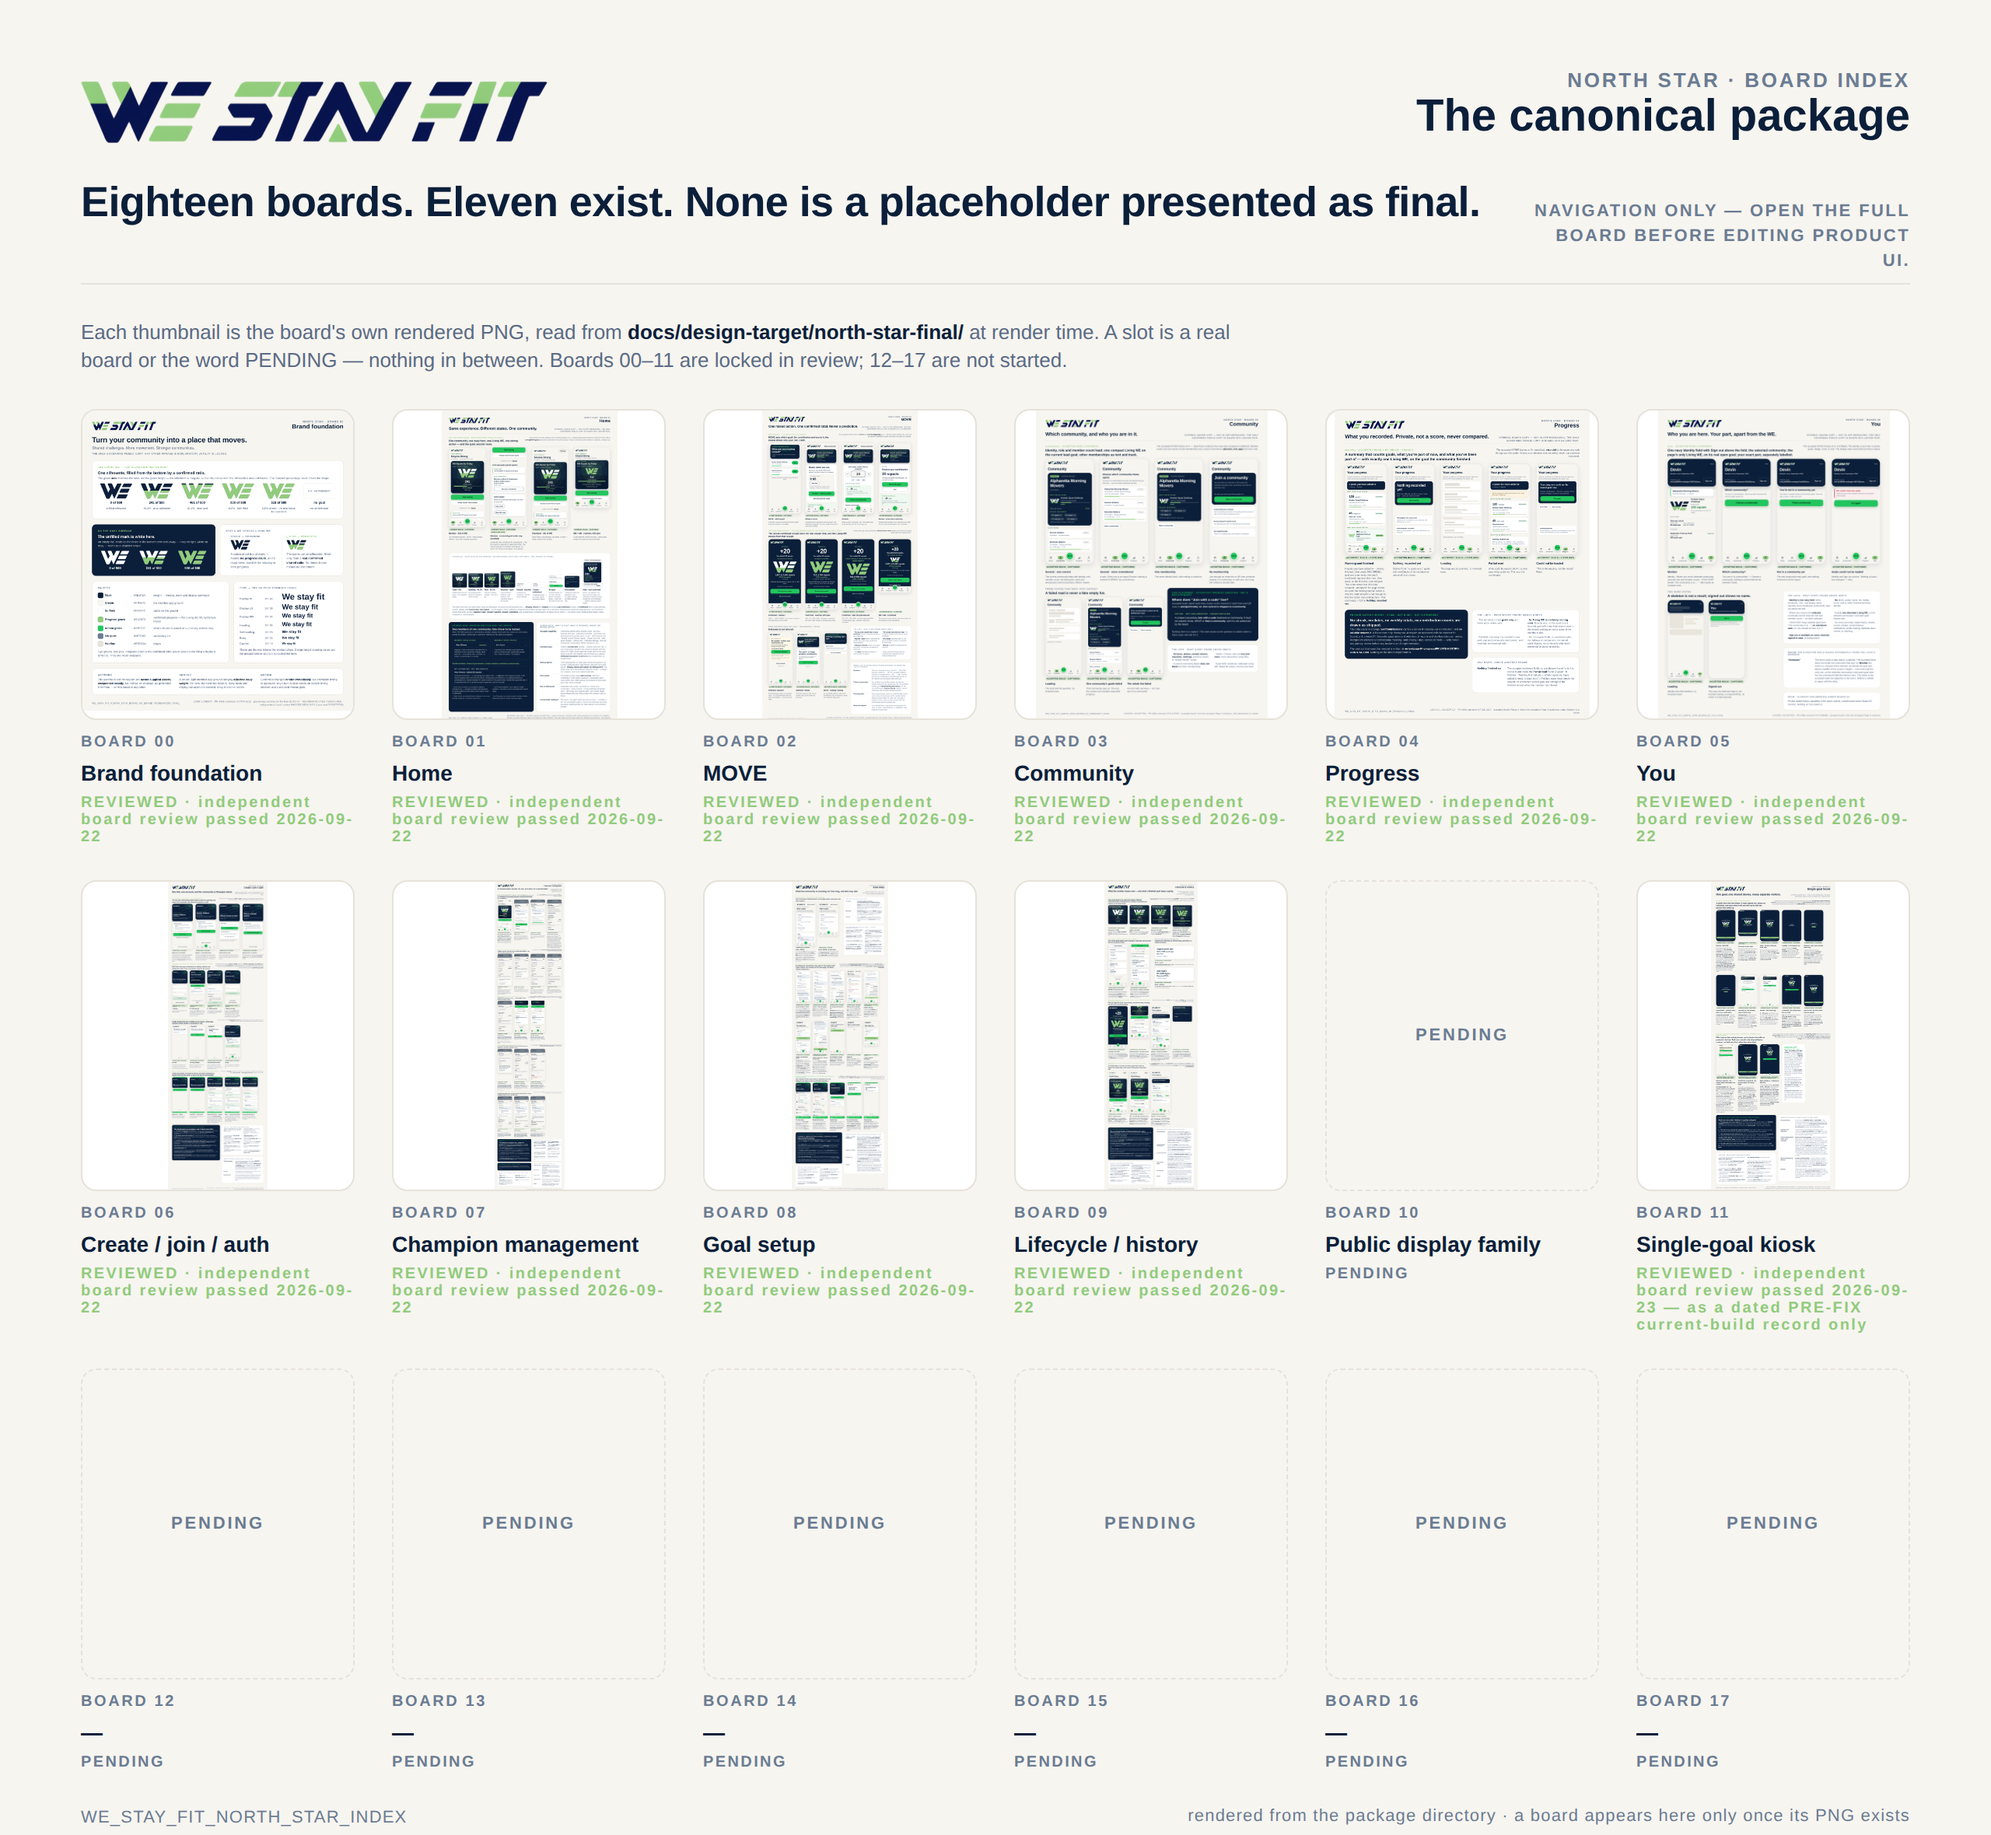
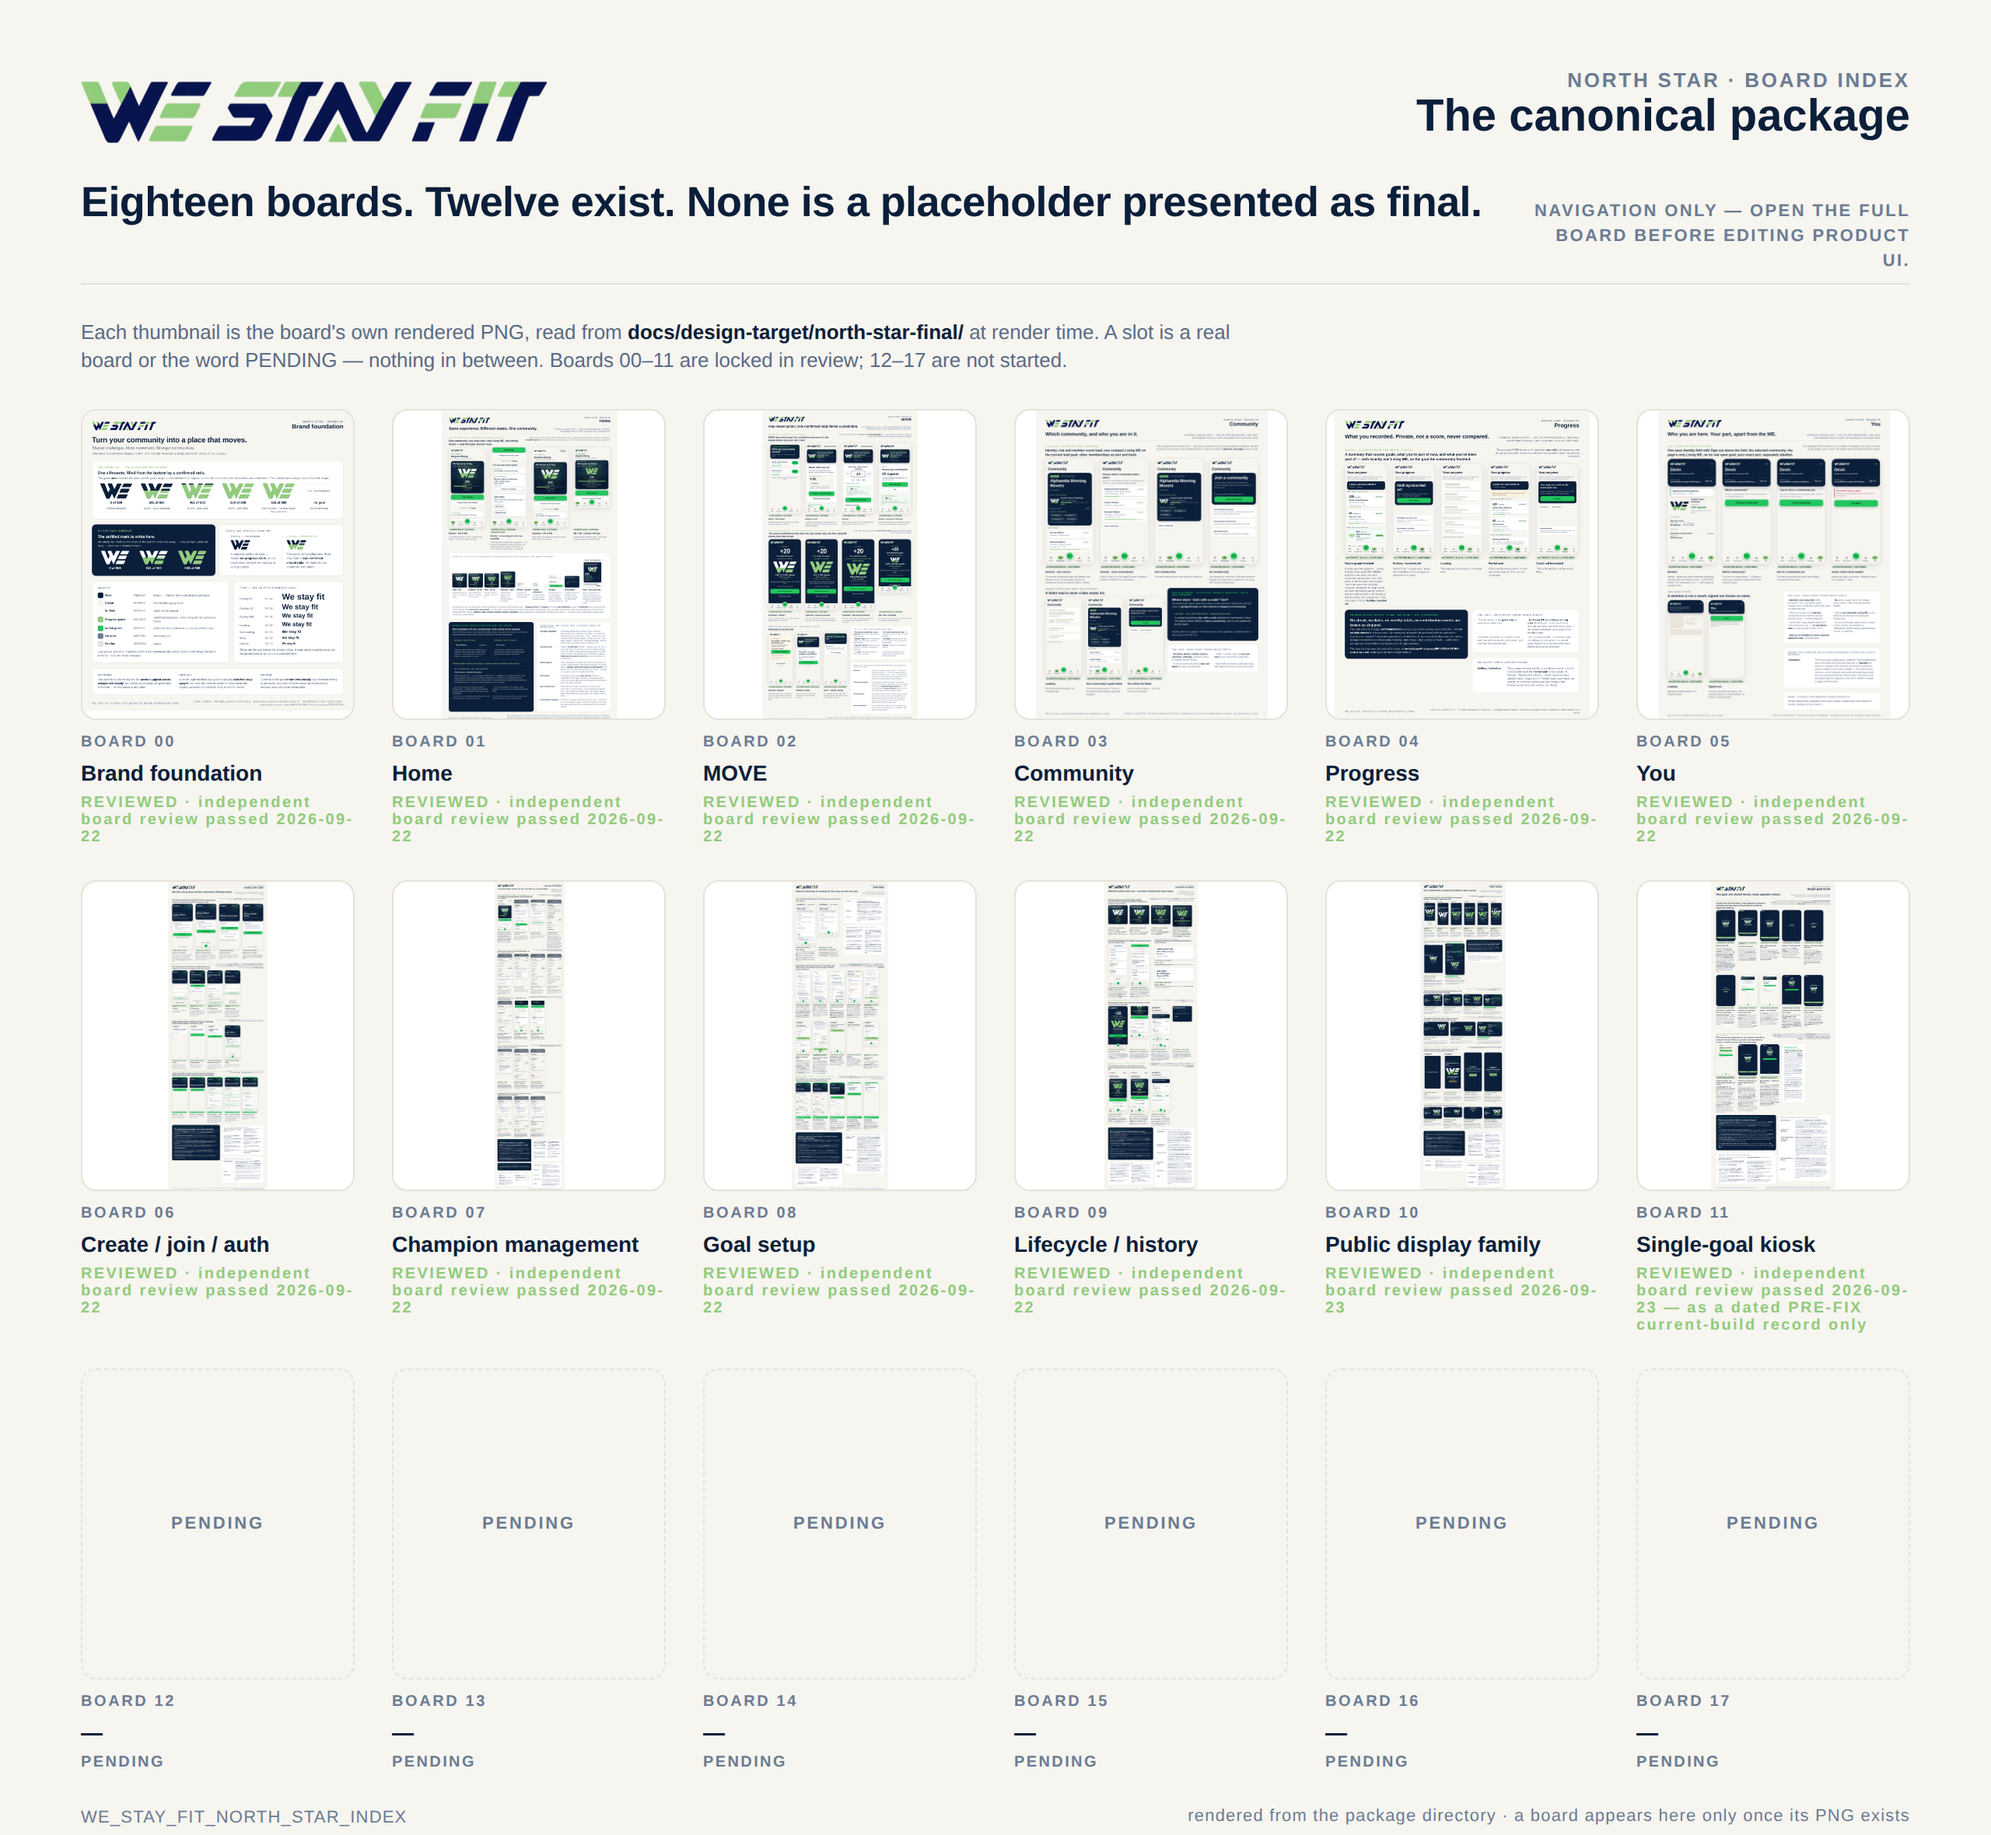
docs(westayfit): Board 10 REVIEWED — status 3 recorded from verdict 5786952407; 1x copy cut; INDEX re-rendered with twelve boards
- README row 10: REVIEWED (PR #422 at aac62c0, artifact 10725827245, blob 6b863a5); review sentence
  Boards 00-11 + INDEX; the row carries the three product gaps the verdict named (narrow 800 px
  portrait, room-scale text/status too small, wide failure placement) as W2's next target checkpoint
- board-10 README: status-only review section (PNG and the 21 captures byte-untouched)
- review-copies: Board 10 1x copy; INDEX.png + INDEX 1x re-rendered; index.mjs headline "Twelve exist"

Claude-Session: https://claude.ai/code/session_017cby7B21o4bFbnpsa1ciRV

Changed region(s): [[0.2188, 0.0928, 0.75, 0.1237], [0.6875, 0.464, 0.7812, 0.6496], [0.6562, 0.6805, 0.7812, 0.7114]]

diff --git a/docs/design-target/north-star-final/README.md b/docs/design-target/north-star-final/README.md
@@ -49,7 +49,7 @@ board gets treated as accepted when only its source screens were:
    checked it line by line against the lock verdict (recorded in the board's
    README).
 3. **Independent board review** — the Program Director has visually reviewed
-   the rendered board itself. **Boards 00–09 and 11 + INDEX have it as of
+   the rendered board itself. **Boards 00–11 + INDEX have it as of
    2026-09-23** — Boards 00–05 + INDEX by Program Director verdict
    `5783373780`, a pixel review of the commit-pinned 1× review copies at
    `a912773` (*PASS as the canonical reconstructed 00–05 package*); Board 06
@@ -63,7 +63,9 @@ board gets treated as accepted when only its source screens were:
    Creative Director verdicts `5786608901` / `5786639647` on PR #423, a pixel
    review of the exported original at `be3ff1b` (artifact `10725905242`, blob
    `124d3b1`), accepted **as a dated PRE-FIX current-build record only** — its
-   row and README carry the kiosk use HOLD. It clears this status for these
+   row and README carry the kiosk use HOLD; Board 10 by Creative Director
+   verdict `5786952407` on PR #422, a pixel review of the exported original at
+   `aac62c0` (artifact `10725827245`, blob `6b863a5`). It clears this status for these
    reconstructed artifacts only; it does not newly accept or stage the
    underlying app pages, and it authorises no deployment.
 
@@ -111,7 +113,7 @@ unaffected.
 | 07 | Champion management | **REVIEWED** · independent board review passed 2026-09-22 (`5785727716`) | `5771412585` | current Manage-sheet truth — the three Home frames are the accepted Page 1 captured later; the fourteen sheet frames are current build; the expanded-details / QR / screens paths are disclosed, not pictured | [`board-07/…BOARD_07_CHAMPION_MANAGEMENT_FINAL.png`](board-07/WE_STAY_FIT_NORTH_STAR_BOARD_07_CHAMPION_MANAGEMENT_FINAL.png) | `ee4e4f8` | W2 (PR #416); reviewed from the exported original (artifact `10723837867`, blob `df1a587`); the PNG's own footer still reads its submission label. Two annotations travel with it (board README): the lock's "member directory not built" line is source-scoped to `5356e3c` and does not retire the separate #390 work; the event-first dense sheet and its invite-not-ready caveat remain product findings, not a premium standard. Champion administration beyond the current sheet is an unbuilt seam. |
 | 08 | Goal setup | **REVIEWED** · independent board review passed 2026-09-22 (`5786034310`) | `5771436211` | staging-only current-build truth — the two arrival frames frozen at `02e24df`; a CURRENT BUILD strip from W4's real goal-setup captures (#415, source `0757379`); the target drawings kept non-authoritative where they conflict with the lock | [`board-08/…BOARD_08_GOAL_SETUP_FINAL.png`](board-08/WE_STAY_FIT_NORTH_STAR_BOARD_08_GOAL_SETUP_FINAL.png) | `5674a86` | W1B (PR #409); composition PASS `5784966469`, the coverage hold closed by the bounded revision `56fb683`, two captions corrected at `5674a86`; reviewed from the exported original (artifact `10724116667`, blob `bb72dacc`); the PNG's own footer still reads its submission label. Not page acceptance: the route stays available in staging and local emulators, production UI gated. |
 | 09 | Lifecycle / history | **REVIEWED** · independent board review passed 2026-09-22 (`5786014162`) | `5771469193` | lifecycle truth — eleven accepted-build captures read in place, plus the corrected-below-target specimen photographed from a real reach and a real group-level correction (`review/lifecycle-corrected-current/`, W1B's gated producer) | [`board-09/…BOARD_09_LIFECYCLE_HISTORY_FINAL.png`](board-09/WE_STAY_FIT_NORTH_STAR_BOARD_09_LIFECYCLE_HISTORY_FINAL.png) | `8aae42d` | W1B (PR #412); layout PASS `5785588557`, the completeness hold closed by the supplement; reviewed from the exported original (artifact `10724485128`, blob `f34cfaf3`); the PNG's own footer still reads its submission label. No new History route, no dated personal history, no streak. |
-| 10 | Public display family | PENDING | `5771496484` | target | — | — | Device classes are design targets, not installed hardware. |
+| 10 | Public display family | **REVIEWED** · independent board review passed 2026-09-23 (`5786952407`) | `5771496484` | current-build truth of `/display/[goalId]` at four viewports — twenty real captures (`review/sprint-w2-board10/`, W2's gated producer) plus three batch-f target drawings tagged NOT IMPLEMENTED; QR-to-join only inside the targets, as an unwired seam | [`board-10/…BOARD_10_PUBLIC_DISPLAY_FINAL.png`](board-10/WE_STAY_FIT_NORTH_STAR_BOARD_10_PUBLIC_DISPLAY_FINAL.png) | `aac62c0` | W2 (PR #422); reviewed from the exported original (artifact `10725827245`, blob `6b863a5`); the PNG's own footer still reads its submission label. Not page acceptance: the 800 px portrait still takes the narrow layout, room-scale text and status are too small, and the wide failure placement needs recomposition — carried into W2's separate `public-display-next` target checkpoint, not a repaint of this board. Device classes are design targets, not installed hardware. |
 | 11 | Single-goal kiosk | **REVIEWED** · independent board review passed 2026-09-23 (`5786639647`, `5786608901`) — **as a dated PRE-FIX current-build record only** | `5771528649` | current-build truth of `/kiosk/[goalId]` — fifteen real kiosk frames at 800×1280 (+ one 1024×1366) from W1B's gated producer (`review/kiosk-current/`), including the injected unknown-outcome and sign-out-failure states; no target drawing | [`board-11/…BOARD_11_SINGLE_GOAL_KIOSK_FINAL.png`](board-11/WE_STAY_FIT_NORTH_STAR_BOARD_11_SINGLE_GOAL_KIOSK_FINAL.png) | `be3ff1b` | W1B (PR #423); reviewed from the exported original (artifact `10725905242`, blob `124d3b1`); the PNG's own footer still reads its submission label. **The member tab bar on the kiosk contribution screen and the illegible `Stay` / chrome `Finish` labels it photographs are product holds, not accepted behaviour.** **SHARED / UNATTENDED KIOSK USE IS HELD** (`5786524650`): after this board was captured, W5 proved the bar leaves the previous visitor's own identity on the device without Finish/timeout (`5786450648`); correction by W1B on `claude/wsf-kiosk-confinement` (from `d0477cc`), independent verification by W5. This board and its captures are the historical BEFORE; a matched AFTER attaches separately once the fix passes. Device classes are design targets, not installed hardware. |
 | 12 | — | PENDING | — | — | — | — | Not started. Paused until 00–11 clears. |
 | 13 | — | PENDING | — | — | — | — | Not started. |

diff --git a/docs/design-target/north-star-final/board-10/README.md b/docs/design-target/north-star-final/board-10/README.md
@@ -130,3 +130,36 @@ and no injected failure is presented as an organic one.
 Every claim on the board is either a quotation from the lock, a property
 visible in the frame it captions, or a line read out of the repository at a
 named SHA. Where the lock did not settle something, it is not asserted.
+
+## Independent board review — PASSED 2026-09-23
+
+Creative Director verdict `5786952407` on PR #422, a pixel review of the
+exported original at `aac62c0` (PR #425, run `35801222465`, artifact
+`10725827245`, archive sha256 `7c2516c9…`; PNG git blob `6b863a55`,
+3,245,603 bytes, 2560×9260) — *PASS as a reconstructed, dated CURRENT BUILD
++ explicitly labelled TARGET reference.* Status 3 in the manifest is now
+REVIEWED. Status-only: the PNG bytes and the twenty-one
+`review/sprint-w2-board10/` captures are exactly the reviewed bytes; the
+footer's submission label was deliberately not re-rendered.
+
+**What the verdict accepts.** The phone's one calibrated Living WE and no
+member chrome, the lifecycle distinctions and the overshoot, the narrow
+portrait build against the intended portrait composition, the wide variants,
+retained stale truth, initial failure with no invented total, the generic
+refusal and the list-only failure are visibly represented. The fixture
+difference (Maple Street captures, Riverside drawings) is disclosed, so the
+two are not presented as one implemented before/after. QR is NOT WIRED and
+absent from every current-capture claim.
+
+**What it does not accept.** The current public-display page as its finished
+premium design, installed hardware, a QR implementation, a privacy or
+production release, or any deploy. The product gaps stay explicit: the
+800 px portrait still takes the narrow (phone) layout, room-scale text and
+status are too small, and the wide failure placement needs recomposition.
+They feed W2's separate public-display responsive TARGET checkpoint
+(`docs/design-target/review/public-display-next/`), not a repaint of this
+board.
+
+This completes independent review of the initial Boards 00–11 package:
+twelve reference boards, not twelve implemented pages. Board 11's PRE-FIX
+qualifier and the shared/unattended kiosk use HOLD remain in force.
